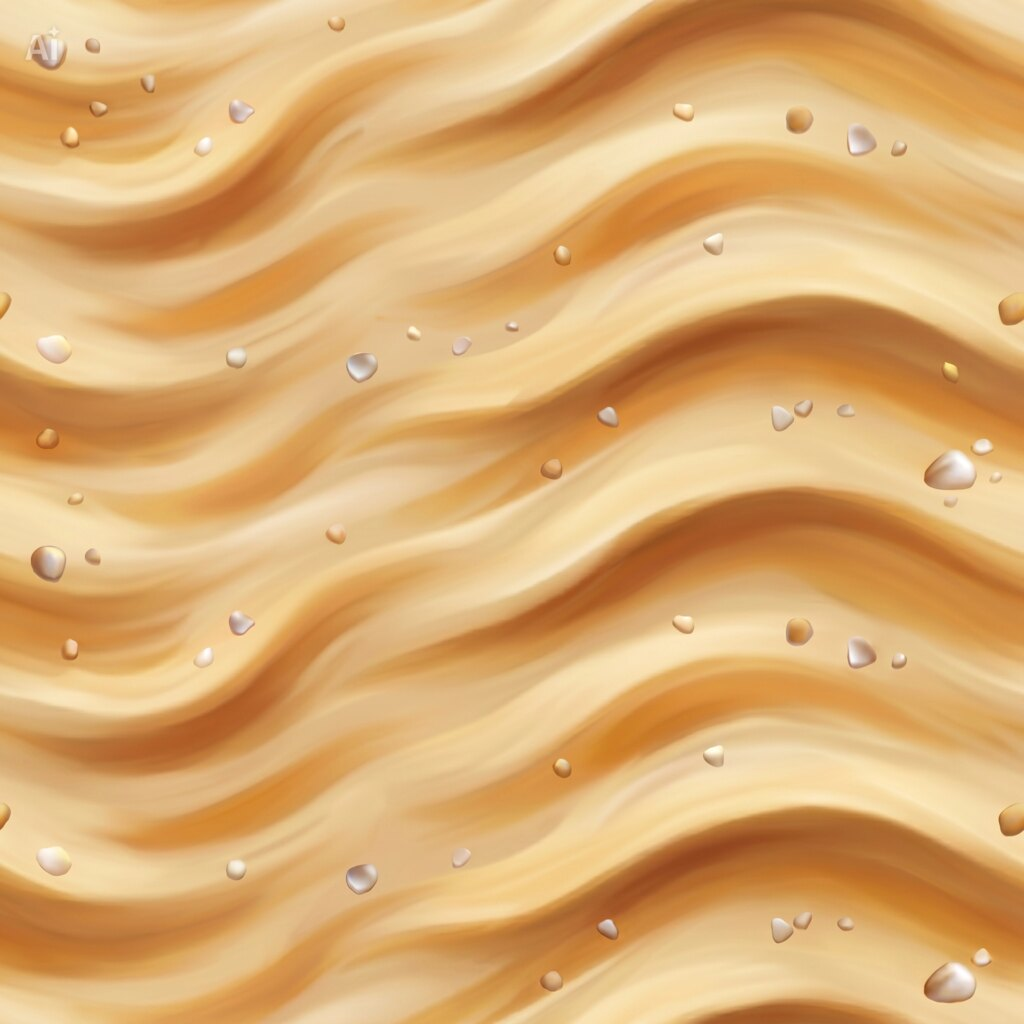
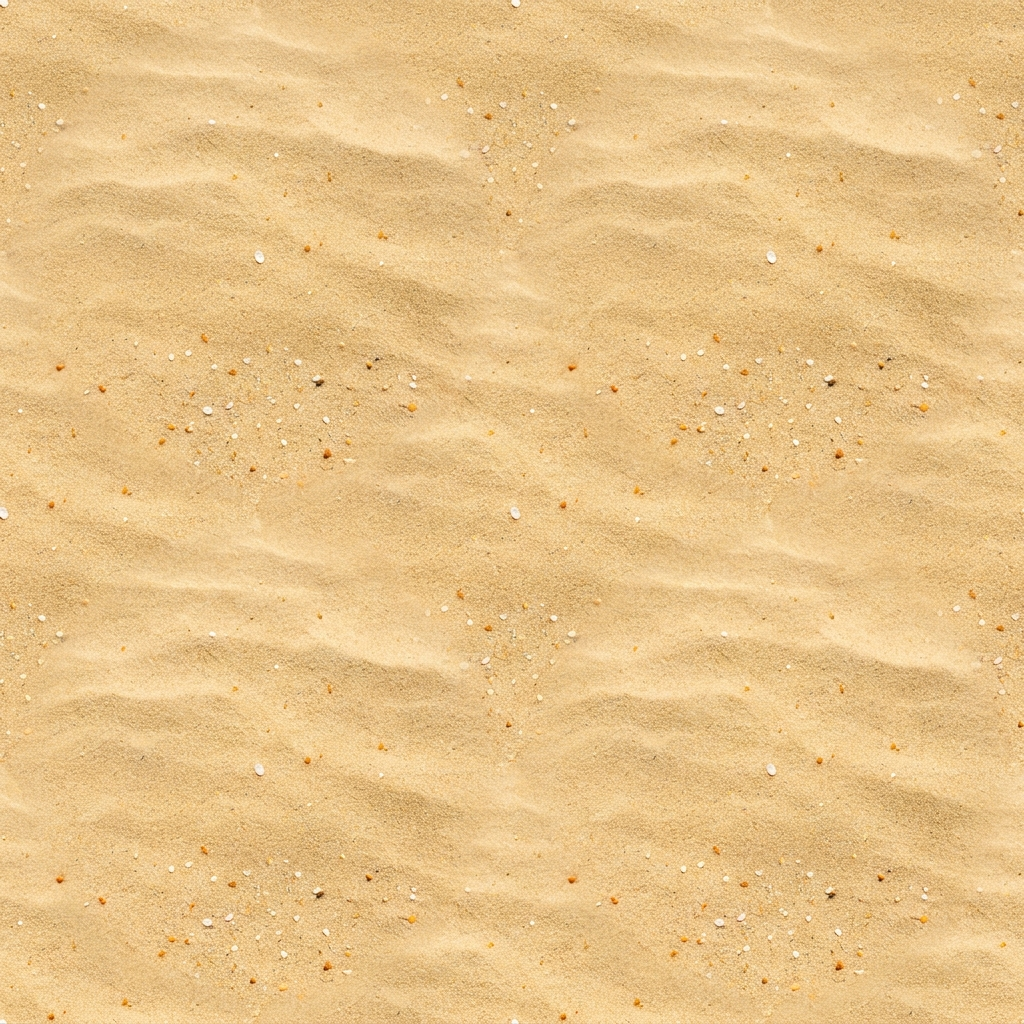
The island gets real: photoreal sand, granite, leaves, and a true frond
- tex/: photoreal seamless sand + granite replace the cartoon swirls and
  game-art blocks (the old sand even carried an AI watermark); new dense
  foliage tile; a real coconut frond keyed to alpha (Foundry-generated,
  Gemini door — the new guide-drop pipeline's first commission)
- island3d + VR: palm crowns are six real drooping fronds (one Instanced
  Mesh, same draw-call budget); canopy spheres and ferns wear the foliage
  tile (two tints so the jungle isn't one green); boulders inherit the
  granite; both islands read the SAME tex files — one island, two doors
- the city wears real plank grain (one tile, three tints); the totem wears
  driftwood grain
- onboard_ship.mp4 retired to assets/retired/ (fixed faces broke the
  silhouette law) — boarding rides the commissioned stills' Ken Burns

diff --git a/public/island3d/index.html b/public/island3d/index.html
@@ -262,29 +262,50 @@ instancedScatter(new THREE.CylinderGeometry(0.16, 0.34, 7, 6), barkMat, palmSpot
   d.rotation.set(0, rand() * Math.PI * 2, (rand() - 0.5) * 0.3);
   d.scale.setScalar(0.8 + rand() * 0.5);
 });
+// THE PHOTOREAL FRONDS (2026-07-16, Lance's commission): a real coconut
+// frond, keyed to alpha, on a horizontal plane per frond — six per crown,
+// drooping outward. One InstancedMesh; the flat green cones are retired.
 const frondSpots = [];
 for (const s of palmSpots) for (let i = 0; i < 6; i++) frondSpots.push({ ...s, fi: i });
-instancedScatter(new THREE.ConeGeometry(0.55, 3.6, 4), mat(0x3B8456), frondSpots, (d, s) => {
-  const top = s.h + 6.6;
-  d.position.set(s.x + Math.cos((s.fi / 6) * Math.PI * 2) * 0.9, top + 0.3, s.z + Math.sin((s.fi / 6) * Math.PI * 2) * 0.9);
-  d.rotation.set(Math.PI / 2.5 * Math.sin((s.fi / 6) * Math.PI * 2), 0, Math.PI / 2.5 * Math.cos((s.fi / 6) * Math.PI * 2));
+const frondGeo = (() => {
+  const g = new THREE.PlaneGeometry(4.2, 4.2);
+  g.rotateX(-Math.PI / 2);   // lie flat, facing up; blade runs +x
+  g.translate(1.8, 0, 0);    // stem at the origin (the crown)
+  return g;
+})();
+const frondMat = new THREE.MeshLambertMaterial({
+  map: texLoader.load('/island3d/tex/frond.png'),
+  alphaTest: 0.4, side: THREE.DoubleSide,
 });
-// jungle canopy trees (the deep interior): trunk + two-tone leaf blobs
+instancedScatter(frondGeo, frondMat, frondSpots, (d, s) => {
+  d.position.set(s.x, s.h + 6.9, s.z);
+  d.rotation.order = 'YZX';
+  d.rotation.set(0, (s.fi / 6) * Math.PI * 2 + rand() * 0.5, -(0.35 + rand() * 0.3));
+  d.scale.setScalar(0.85 + rand() * 0.4);
+});
+// jungle canopy trees (the deep interior): trunk + REAL leaf mass — the
+// canopy spheres now wear the photographed foliage tile, tinted two ways so
+// the jungle isn't one green.
+const texFoliage = tile('/island3d/tex/foliage.jpg', 2);
+const foliageMat  = new THREE.MeshLambertMaterial({ map: texFoliage });
+const foliageMat2 = new THREE.MeshLambertMaterial({ map: texFoliage, color: 0xC9E8B9 });
 const treeSpots = scatterOn(160, h => h > 3.5 && h < 13);
 instancedScatter(new THREE.CylinderGeometry(0.3, 0.5, 5, 6), barkMat, treeSpots, (d, s) => {
   d.position.set(s.x, s.h + 2.2, s.z);
   d.scale.setScalar(0.8 + rand() * 0.8);
 });
-instancedScatter(new THREE.SphereGeometry(2.6, 8, 6), mat(0x2F6B43), treeSpots, (d, s, i) => {
+instancedScatter(new THREE.SphereGeometry(2.6, 10, 8), foliageMat, treeSpots, (d, s, i) => {
   d.position.set(s.x, s.h + 6 + (i % 3) * 0.5, s.z);
+  d.rotation.y = rand() * Math.PI * 2;
   d.scale.set(1 + rand() * 0.7, 0.75 + rand() * 0.4, 1 + rand() * 0.7);
 });
-instancedScatter(new THREE.SphereGeometry(1.7, 7, 5), mat(0x3F8A56), treeSpots, (d, s) => {
+instancedScatter(new THREE.SphereGeometry(1.7, 9, 7), foliageMat2, treeSpots, (d, s) => {
   d.position.set(s.x + (rand() - 0.5) * 2.4, s.h + 7.4, s.z + (rand() - 0.5) * 2.4);
+  d.rotation.y = rand() * Math.PI * 2;
   d.scale.set(0.9 + rand() * 0.5, 0.6 + rand() * 0.3, 0.9 + rand() * 0.5);
 });
-// ferns (undergrowth) + boulders (the spine wears Lance's rock)
-instancedScatter(new THREE.ConeGeometry(0.5, 1.1, 5), mat(0x4E9B63), scatterOn(240, h => h > 3 && h < 11), (d, s) => {
+// ferns (undergrowth) + boulders (the spine wears the real granite)
+instancedScatter(new THREE.ConeGeometry(0.5, 1.1, 6), foliageMat, scatterOn(240, h => h > 3 && h < 11), (d, s) => {
   d.position.set(s.x, s.h + 0.4, s.z);
   d.rotation.y = rand() * Math.PI;
   d.scale.setScalar(0.7 + rand());
@@ -1519,7 +1540,13 @@ const fallsAnim = [];
 // drifted to sharing almost nothing. qa:island-mirror asserts it now.
 const CITY_ANIM = [];
 const CITY_LIT = [];   // { lightsAt, lamp, glow } — raised by the milestone log
-const M_TIMBER = mat(0x8B6B47), M_PLANK = mat(0xA9835B), M_DARK = mat(0x5C4530);
+// The city wears real wood now (2026-07-16): one plank tile, tinted three
+// ways — the map multiplies the color, so the grain reads without three
+// texture fetches.
+const texCityPlank = tile('/island3d/tex/planks.jpg', 2);
+const M_TIMBER = new THREE.MeshLambertMaterial({ map: texCityPlank, color: 0xC1A078 });
+const M_PLANK  = new THREE.MeshLambertMaterial({ map: texCityPlank, color: 0xE2C093 });
+const M_DARK   = new THREE.MeshLambertMaterial({ map: texCityPlank, color: 0x8A6B4C });
 
 function closedCount() {
   try {
@@ -1713,10 +1740,11 @@ window.addEventListener('storage', raiseCityLights);
   const g = new THREE.Group();
   g.position.set(lm.x, base, lm.z);
 
-  const post = new THREE.Mesh(new THREE.CylinderGeometry(0.5, 0.62, 4.6, 9), mat(0x8B6B47));
+  const totemWood = new THREE.MeshLambertMaterial({ map: tile('/island3d/tex/grain.jpg', 1), color: 0xD8B98C });
+  const post = new THREE.Mesh(new THREE.CylinderGeometry(0.5, 0.62, 4.6, 12), totemWood);
   post.position.y = 2.3;
   g.add(post);
-  const cap = new THREE.Mesh(new THREE.ConeGeometry(0.8, 0.9, 9), mat(0x6E5236));
+  const cap = new THREE.Mesh(new THREE.ConeGeometry(0.8, 0.9, 12), new THREE.MeshLambertMaterial({ map: tile('/island3d/tex/grain.jpg', 1), color: 0x9A7A52 }));
   cap.position.y = 5.0;
   g.add(cap);
 

diff --git a/public/vr/index.html b/public/vr/index.html
@@ -184,21 +184,38 @@ instancedScatter(new THREE.CylinderGeometry(0.16, 0.34, 7, 6), barkMat, palmSpot
   d.rotation.set(0, rand() * Math.PI * 2, (rand() - 0.5) * 0.3);
   d.scale.setScalar(0.8 + rand() * 0.5);
 });
+// PHOTOREAL FRONDS + FOLIAGE (2026-07-16) — same treatment as island3d, so
+// the flat island and the headset island are the same island.
 const frondSpots = [];
 for (const s of palmSpots) for (let i = 0; i < 6; i++) frondSpots.push({ ...s, fi: i });
-instancedScatter(new THREE.ConeGeometry(0.55, 3.6, 4), mat(0x3B8456), frondSpots, (d, s) => {
-  d.position.set(s.x + Math.cos((s.fi / 6) * Math.PI * 2) * 0.9, s.h + 6.9, s.z + Math.sin((s.fi / 6) * Math.PI * 2) * 0.9);
-  d.rotation.set(Math.PI / 2.5 * Math.sin((s.fi / 6) * Math.PI * 2), 0, Math.PI / 2.5 * Math.cos((s.fi / 6) * Math.PI * 2));
+const frondGeo = (() => {
+  const g = new THREE.PlaneGeometry(4.2, 4.2);
+  g.rotateX(-Math.PI / 2);
+  g.translate(1.8, 0, 0);
+  return g;
+})();
+const frondMat = new THREE.MeshLambertMaterial({
+  map: texLoader.load('/island3d/tex/frond.png'),
+  alphaTest: 0.4, side: THREE.DoubleSide,
 });
+instancedScatter(frondGeo, frondMat, frondSpots, (d, s) => {
+  d.position.set(s.x, s.h + 6.9, s.z);
+  d.rotation.order = 'YZX';
+  d.rotation.set(0, (s.fi / 6) * Math.PI * 2 + rand() * 0.5, -(0.35 + rand() * 0.3));
+  d.scale.setScalar(0.85 + rand() * 0.4);
+});
+const texFoliage = tile('/island3d/tex/foliage.jpg', 2);
+const foliageMat = new THREE.MeshLambertMaterial({ map: texFoliage });
 const treeSpots = scatterOn(90, h => h > 3.5 && h < 13);
 instancedScatter(new THREE.CylinderGeometry(0.3, 0.5, 5, 6), barkMat, treeSpots, (d, s) => {
   d.position.set(s.x, s.h + 2.2, s.z); d.scale.setScalar(0.8 + rand() * 0.8);
 });
-instancedScatter(new THREE.SphereGeometry(2.6, 7, 5), mat(0x2F6B43), treeSpots, (d, s, i) => {
+instancedScatter(new THREE.SphereGeometry(2.6, 8, 6), foliageMat, treeSpots, (d, s, i) => {
   d.position.set(s.x, s.h + 6 + (i % 3) * 0.5, s.z);
+  d.rotation.y = rand() * Math.PI * 2;
   d.scale.set(1 + rand() * 0.7, 0.75 + rand() * 0.4, 1 + rand() * 0.7);
 });
-instancedScatter(new THREE.ConeGeometry(0.5, 1.1, 5), mat(0x4E9B63), scatterOn(120, h => h > 3 && h < 11), (d, s) => {
+instancedScatter(new THREE.ConeGeometry(0.5, 1.1, 6), foliageMat, scatterOn(120, h => h > 3 && h < 11), (d, s) => {
   d.position.set(s.x, s.h + 0.4, s.z); d.rotation.y = rand() * Math.PI; d.scale.setScalar(0.7 + rand());
 });
 instancedScatter(new THREE.DodecahedronGeometry(1.3, 0), new THREE.MeshLambertMaterial({ map: texRock }), scatterOn(40, h => h > 8), (d, s) => {

diff --git a/src/components/BoardingStory.tsx b/src/components/BoardingStory.tsx
@@ -18,8 +18,13 @@ import { THE_SEVEN, claimSlot, setActiveCastaway, readCrew, writeRelationship } 
 //    /shore/onboard_shore.mp4   — waking on the tide line
 // ═════════════════════════════════════════════════════════════════════════════
 
+// RETIRED 2026-07-16 (Lance's call): onboard_ship.mp4 showed fixed, readable
+// faces — the silhouette law says shared story art never locks the family
+// into one look. The file lives in assets/retired/; the commissioned stills
+// carry the boarding with the Ken Burns hold. If on-canon clips are ever
+// generated (silhouettes + wooden robots only), point these slots at them.
 const VIDEO = {
-  ship: '/shore/onboard_ship.mp4',
+  ship: '/shore/onboard_ship_retired.mp4',
   storm: '/shore/onboard_storm.mp4',
   shore: '/shore/onboard_shore.mp4',
 };